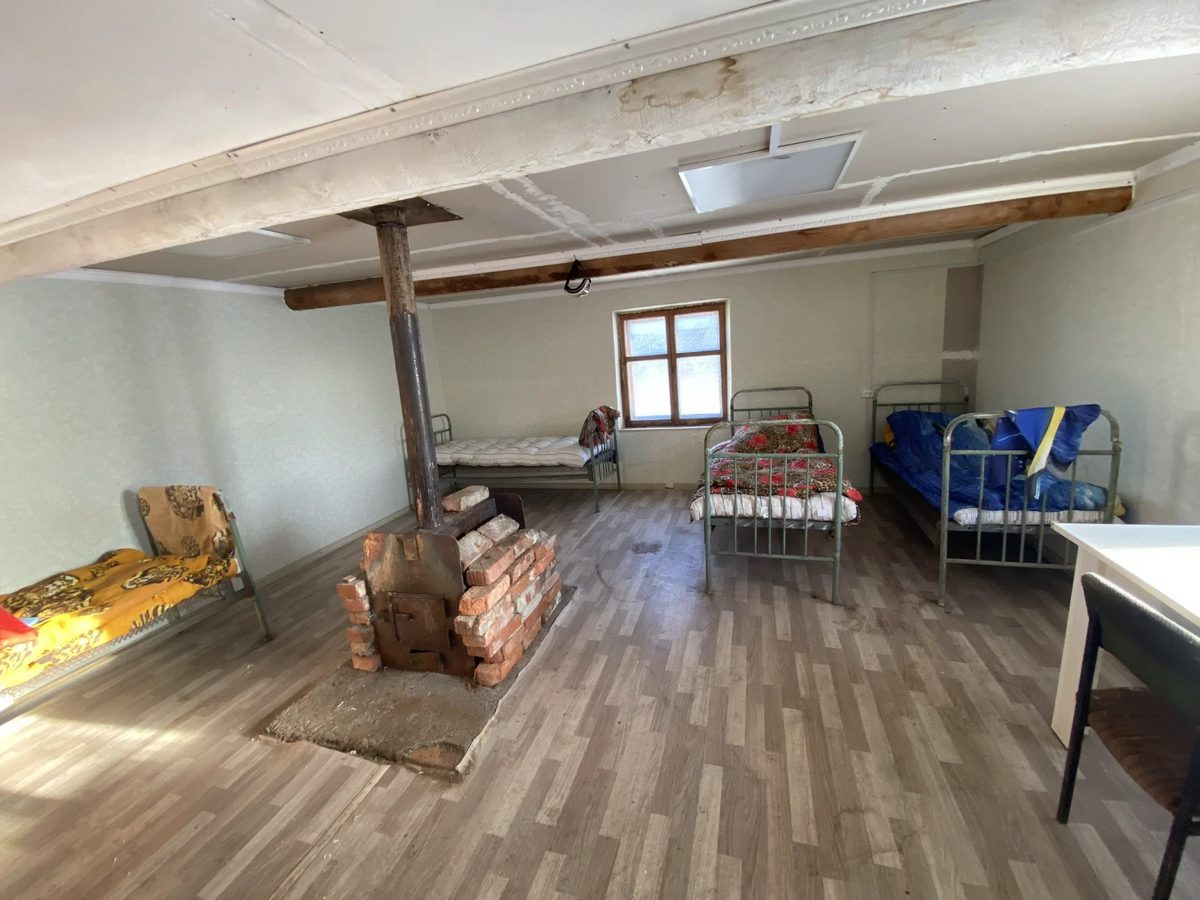
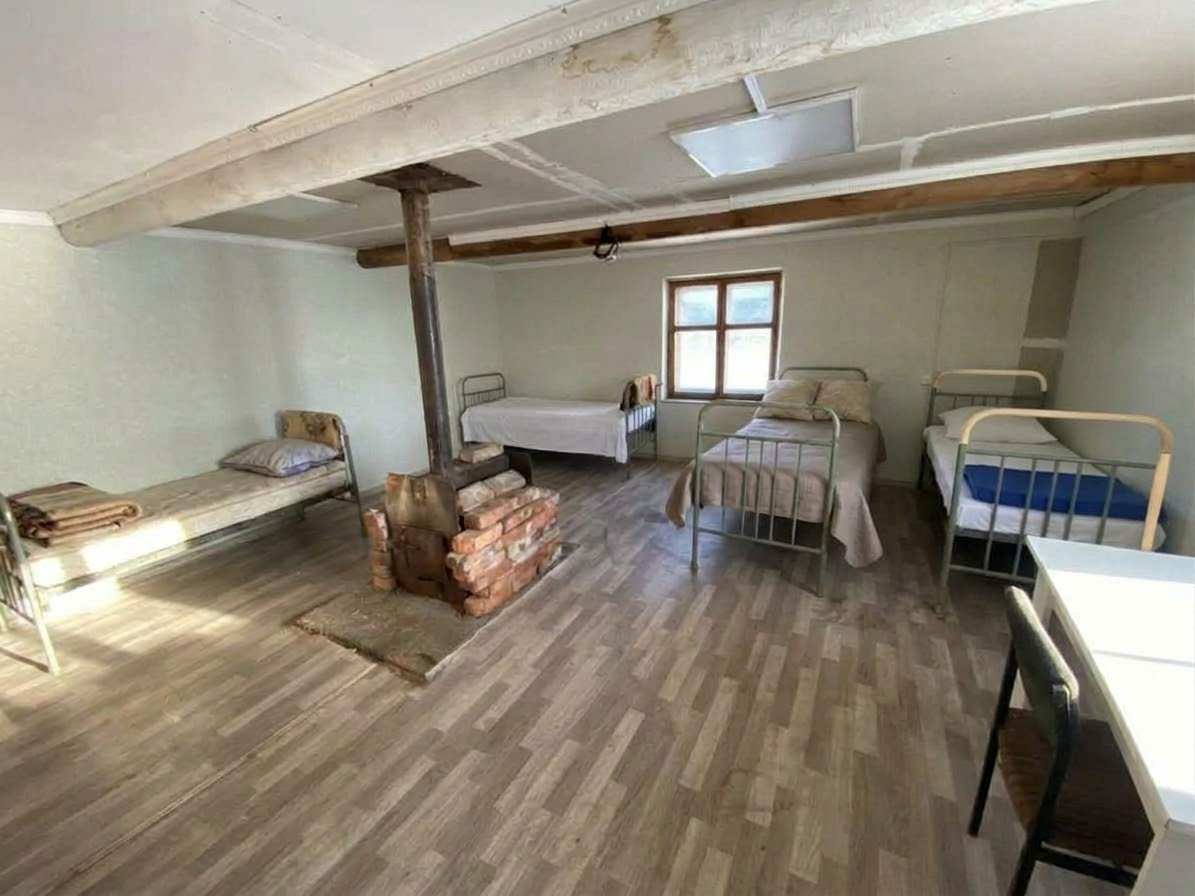
Site: new house interior photo
Claude-Session: https://claude.ai/code/session_01MLwZptZ5mpwpaKLTrJpSYV

diff --git a/site/index.html b/site/index.html
@@ -272,7 +272,7 @@ section{scroll-margin-top:84px}
   </div>
   <div class="cards">
     <article class="card">
-      <div class="ph cover"><picture><source srcset="img/house.webp" type="image/webp"><img src="img/house.jpg" alt="Домик на 4–5 человек: кровати, печь и стол внутри" width="1200" height="900" loading="lazy" decoding="async"></picture></div>
+      <div class="ph cover"><picture><source srcset="img/house.webp" type="image/webp"><img src="img/house.jpg" alt="Домик на 4–5 человек: кровати, печь и стол внутри" width="1195" height="896" loading="lazy" decoding="async"></picture></div>
       <div class="bd"><div class="row"><h3><span class="badge"><svg class="ico" viewBox="0 0 24 24" fill="none" stroke="currentColor" stroke-width="1.8" stroke-linecap="round" stroke-linejoin="round" aria-hidden="true"><path d="M3 11l9-7 9 7"/><path d="M5 10v10h14V10"/><path d="M10 20v-6h4v6"/></svg></span>Домик</h3><span class="price">4 000 ₽</span></div><p>Домик на 4–5 человек: кровати, печь и стол — тёплый ночлег после целого дня на льду.</p></div>
     </article>
     <article class="card">
